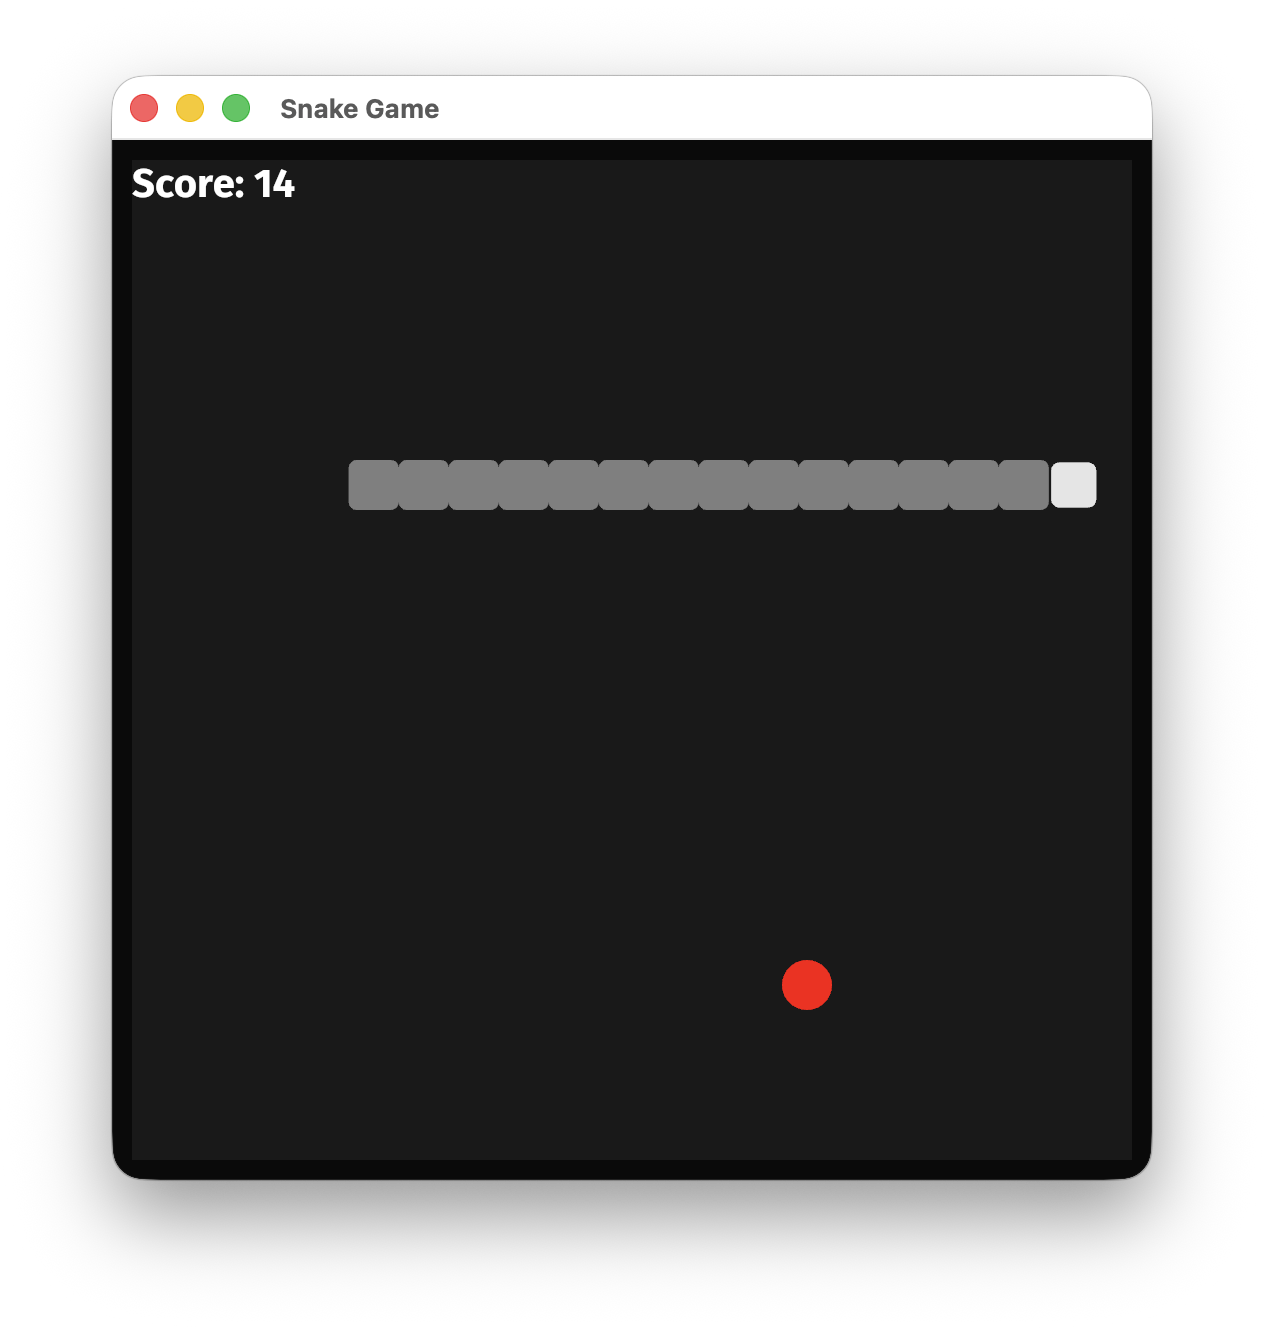
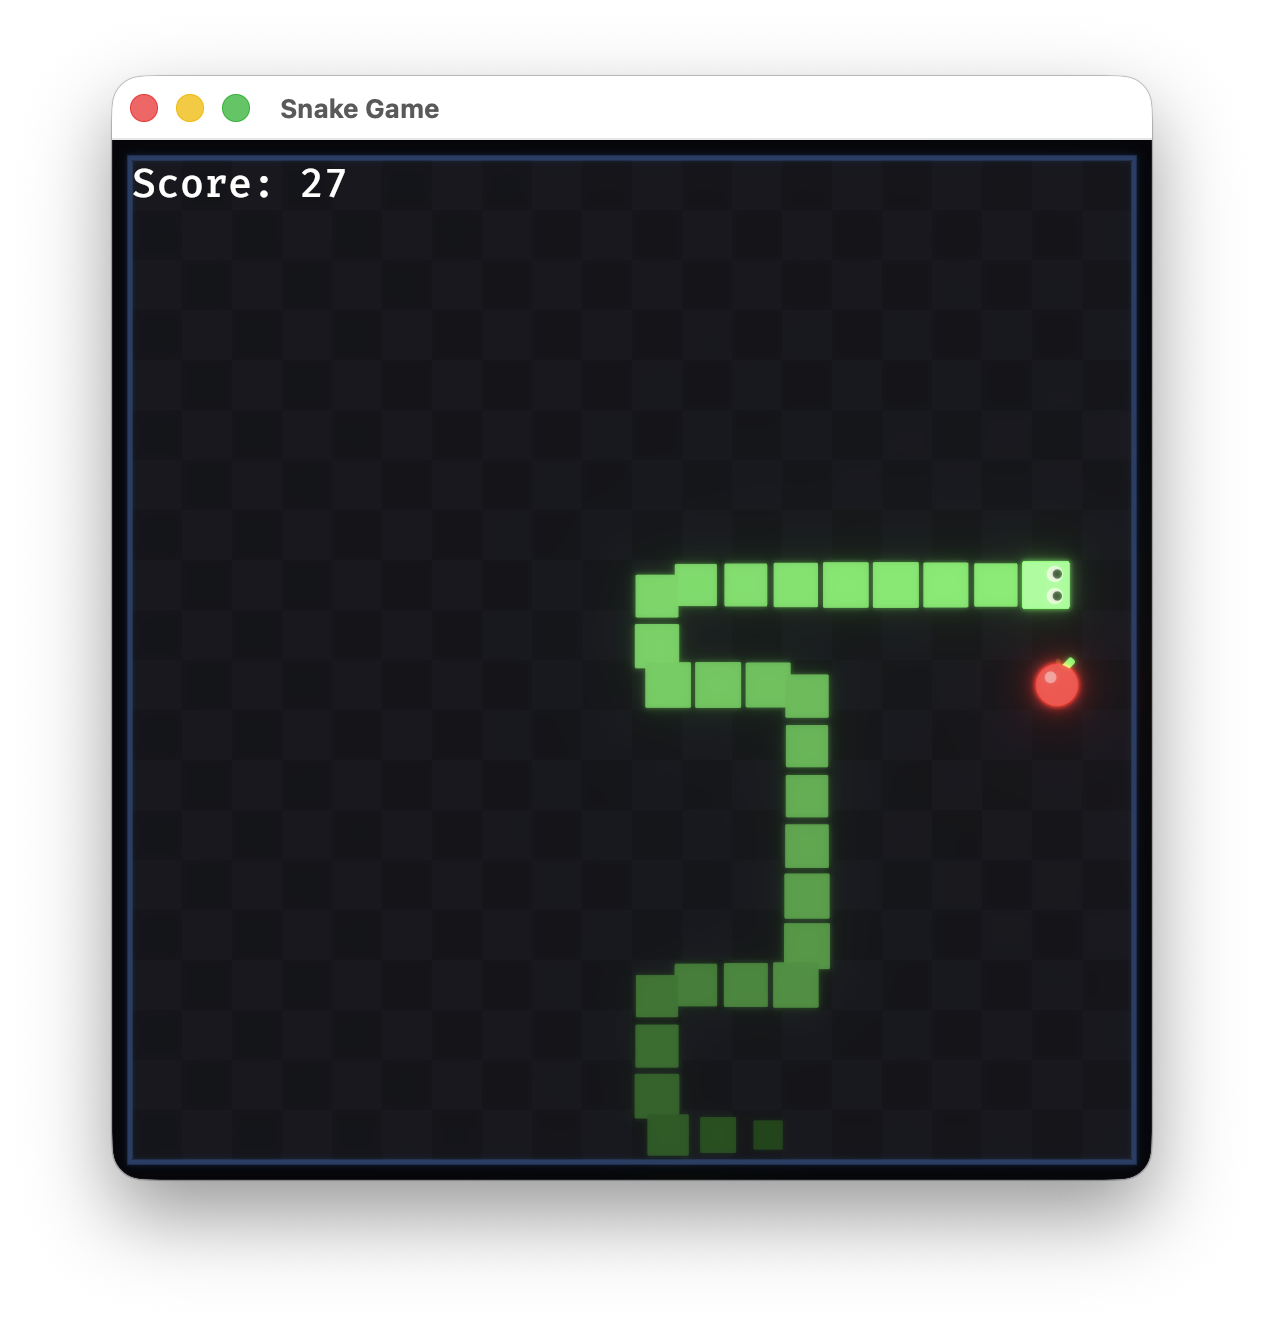
Refresh README screenshots and stale content
Replace the old gray-era screenshots with current captures (menu with
persistent high score and START button; gameplay with the gradient
snake closing in on an apple; the eating burst with bloom flash and
juice particles) and add the third action shot to the README.

Also update stale README facts: features now cover the high score,
buttons, effects, and win condition; controls mention clicking;
dependencies corrected to Bevy 0.19 / bevy_vector_shapes 0.13 /
rand 0.10; project structure reflects the modular plugin layout
instead of the old single-file main.rs (and drops the unused
assets/fonts mention).

Changed region(s): [[0.0926, 0.0926, 0.8948, 0.8953], [0.8948, 0.1235, 0.9256, 0.8645], [0.8022, 0.494, 0.8639, 0.5557]]

diff --git a/README.md b/README.md
@@ -1,21 +1,24 @@
 # Snake Game in Rust with Bevy
 
-A simple Snake game implemented in Rust using the Bevy game engine, initially written entirely by _Claud Desktop_ with _Desktop Commander MCP_. Later updates were made using _Claude Code_. 
+A simple Snake game implemented in Rust using the Bevy game engine, initially written entirely by _Claud Desktop_ with _Desktop Commander MCP_. Later updates were made using _Claude Code_.
 
-![Game Screenshot](screenshot1.png)
-![Game Screenshot](screenshot2.png)
+![Start menu with persistent high score and clickable START button](screenshot1.png)
+![Gameplay: the snake closing in on an apple](screenshot2.png)
+![Eating an apple: bloom flash, juice particles, and a floating +1](screenshot3.png)
 
 ## Features
 
 - Classic Snake gameplay mechanics
-- Score tracking
-- Game over state with restart functionality
+- Score tracking with a persistent high score (saved across sessions)
+- Glowing HDR + bloom visuals: gradient snake body with tail taper, blinking eyes, and a flicking tongue
+- Apples with a pop-in animation; eating them bursts juice particles and a floating "+1"
+- Start menu and game-over/win screens with clickable buttons
 - Wrap-around screen edges
 
 ## Controls
 
 - Arrow keys or WASD to control the snake
-- Space to restart after game over
+- Click START / RESTART / PLAY AGAIN, or press Space
 
 ## How to Run
 
@@ -31,18 +34,24 @@ A simple Snake game implemented in Rust using the Bevy game engine, initially wr
 
 ## Game Rules
 
-- Control the snake to eat the red food dots
-- Each food item increases your score and makes the snake longer
+- Control the snake to eat the red apples
+- Each apple increases your score and makes the snake longer
 - The game ends if the snake collides with itself
 - The snake can wrap around the edges of the screen
+- Fill the entire arena to win
 
 ## Dependencies
 
-- Rust 1.91.1
-- Bevy 0.17.3
-- rand 0.9.2
+- Rust 1.96
+- Bevy 0.19
+- bevy_vector_shapes 0.13
+- rand 0.10
 
 ## Project Structure
 
-- `src/main.rs`: Contains all game code
-- `assets/fonts/`: Contains font files for text rendering
+- `src/main.rs`: App setup and plugin wiring
+- `src/game/`: Shared components, resources, events, constants, and system sets
+- `src/snake/`: Snake movement, input, growth, and body styling
+- `src/food/`: Apple spawning, collision, and animations
+- `src/rendering/`: Position interpolation, visual effects, and camera shake
+- `src/ui/`: Menus, end screens, score HUD, and game flow (BSN scenes)